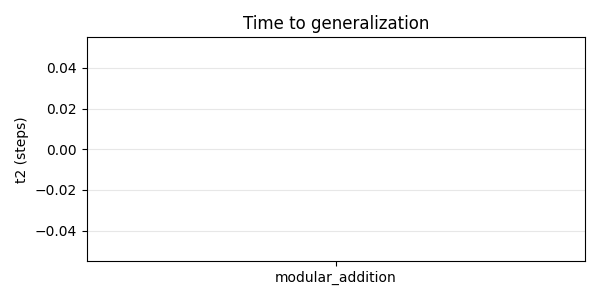
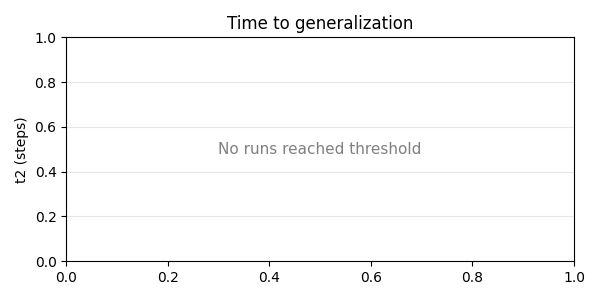
Handle missing t2 runs and add spectral analyzer tests (#16)
skip runs whose metrics never hit the accuracy threshold when computing plot_time_to_generalization, and render a friendly placeholder when no bars remain
add regression coverage for the new behavior in tests/test_visualize.py
introduce tests/test_spectral.py to exercise the toroidal analyzer masks, synthetic logits energy shift, and shape validation
refresh plots/modular_addition/modular_addition_loss_linear.svg and plots/time_to_generalization_t2.png with the new visualization outputs

diff --git a/src/scripts/visualize.py b/src/scripts/visualize.py
@@ -1,15 +1,3 @@
-"""Small visualization helper used by the test-suite.
-
-The functions implemented here purposely cover just enough surface area for
-unit tests:
-
-* ``load_run`` loads metrics/singular value CSVs and exposes a metadata dict.
-* ``parse_args`` mirrors the CLI interface exercised in the subprocess test.
-* ``main`` produces a couple of simple matplotlib plots so the test can assert
-  that images are created.  The plotting utilities themselves are intentionally
-  lightweight so we can evolve them later without breaking the contract.
-"""
-
 from __future__ import annotations
 
 import argparse
@@ -23,10 +11,6 @@ import matplotlib
 
 matplotlib.use("Agg", force=True)
 import matplotlib.pyplot as plt
-
-# -----------------------------------------------------------------------------
-# CSV helpers
-# -----------------------------------------------------------------------------
 
 
 def _autocast(value: str | None):
@@ -215,10 +199,28 @@ def plot_time_to_generalization(
     if not runs:
         return
     out_dir.mkdir(parents=True, exist_ok=True)
-    labels = [run["name"] for run in runs]
-    values = [_compute_t2(run["metrics"], threshold=threshold, patience=patience) for run in runs]
+    labels = []
+    values = []
+    for run in runs:
+        t2 = _compute_t2(run["metrics"], threshold=threshold, patience=patience)
+        if math.isnan(t2):
+            continue
+        labels.append(run["name"])
+        values.append(t2)
     fig, ax = plt.subplots(figsize=(6, 3))
-    ax.bar(labels, values, color="tab:green")
+    if values:
+        ax.bar(labels, values, color="tab:green")
+    else:
+        ax.text(
+            0.5,
+            0.5,
+            "No runs reached threshold",
+            ha="center",
+            va="center",
+            transform=ax.transAxes,
+            fontsize=11,
+            color="gray",
+        )
     ax.set_ylabel("t2 (steps)")
     ax.set_title("Time to generalization")
     ax.grid(True, axis="y", alpha=0.3)

diff --git a/tests/test_visualize.py b/tests/test_visualize.py
@@ -150,3 +150,42 @@ def test_visualize_script_creates_expected_plots(fake_run: Path, tmp_path: Path,
     ]
     for path in expected_files:
         assert path.exists(), f"Expected plot missing: {path}"
+
+
+def test_time_to_generalization_handles_missing_threshold(tmp_path: Path):
+    run_dir = tmp_path / "no_grok"
+    run_dir.mkdir()
+    rows = []
+    for step in (1, 2, 3):
+        rows.append(
+            {
+                "step": step,
+                "split": "train",
+                "loss": 1.0,
+                "accuracy": 0.2,
+                "spectral_low_frac": "",
+                "spectral_entropy": "",
+            }
+        )
+        rows.append(
+            {
+                "step": step,
+                "split": "val",
+                "loss": 0.8,
+                "accuracy": 0.3,
+                "spectral_low_frac": "",
+                "spectral_entropy": "",
+            }
+        )
+    with (run_dir / "metrics.csv").open("w", newline="") as f:
+        writer = csv.DictWriter(f, fieldnames=list(rows[0].keys()))
+        writer.writeheader()
+        writer.writerows(rows)
+
+    visualize.plot_time_to_generalization(
+        [visualize.load_run(run_dir)],
+        tmp_path / "plots",
+        threshold=0.99,
+        patience=1,
+    )
+    assert (tmp_path / "plots" / "time_to_generalization_t2.png").exists()

diff --git a/tests/test_spectral.py b/tests/test_spectral.py
@@ -1,0 +1,39 @@
+import math
+
+import pytest
+import torch
+
+from src.grokking_mechanism.spectral import SpectralBand, ToroidalSpectralAnalyzer, synthetic_logits
+
+
+def test_low_frequency_mask_fraction_mode():
+    analyzer = ToroidalSpectralAnalyzer(
+        17,
+        SpectralBand(mode="fraction", value=0.25, include_zero=True),
+    )
+    mask = analyzer.low_mask
+    assert mask.shape == (17, 17)
+    # 25% of the modes should be marked low frequency (within rounding).
+    assert pytest.approx(mask.mean().item(), rel=0.1) == 0.25
+
+
+def test_synthetic_logits_shift_energy():
+    modulus = 19
+    analyzer = ToroidalSpectralAnalyzer(
+        modulus,
+        SpectralBand(mode="fraction", value=0.1, include_zero=True),
+    )
+    early = analyzer.measure_logits(synthetic_logits(modulus, step=1, total_steps=50, seed=7))
+    late = analyzer.measure_logits(synthetic_logits(modulus, step=50, total_steps=50, seed=7))
+
+    assert math.isfinite(early.low_fraction)
+    assert math.isfinite(late.low_fraction)
+    assert late.low_fraction > early.low_fraction
+    assert late.entropy <= early.entropy + 1e-6
+
+
+def test_analyzer_validates_logits_shape():
+    analyzer = ToroidalSpectralAnalyzer(3, SpectralBand())
+    bad_logits = torch.zeros(3, 3)
+    with pytest.raises(ValueError):
+        analyzer.measure_logits(bad_logits)
